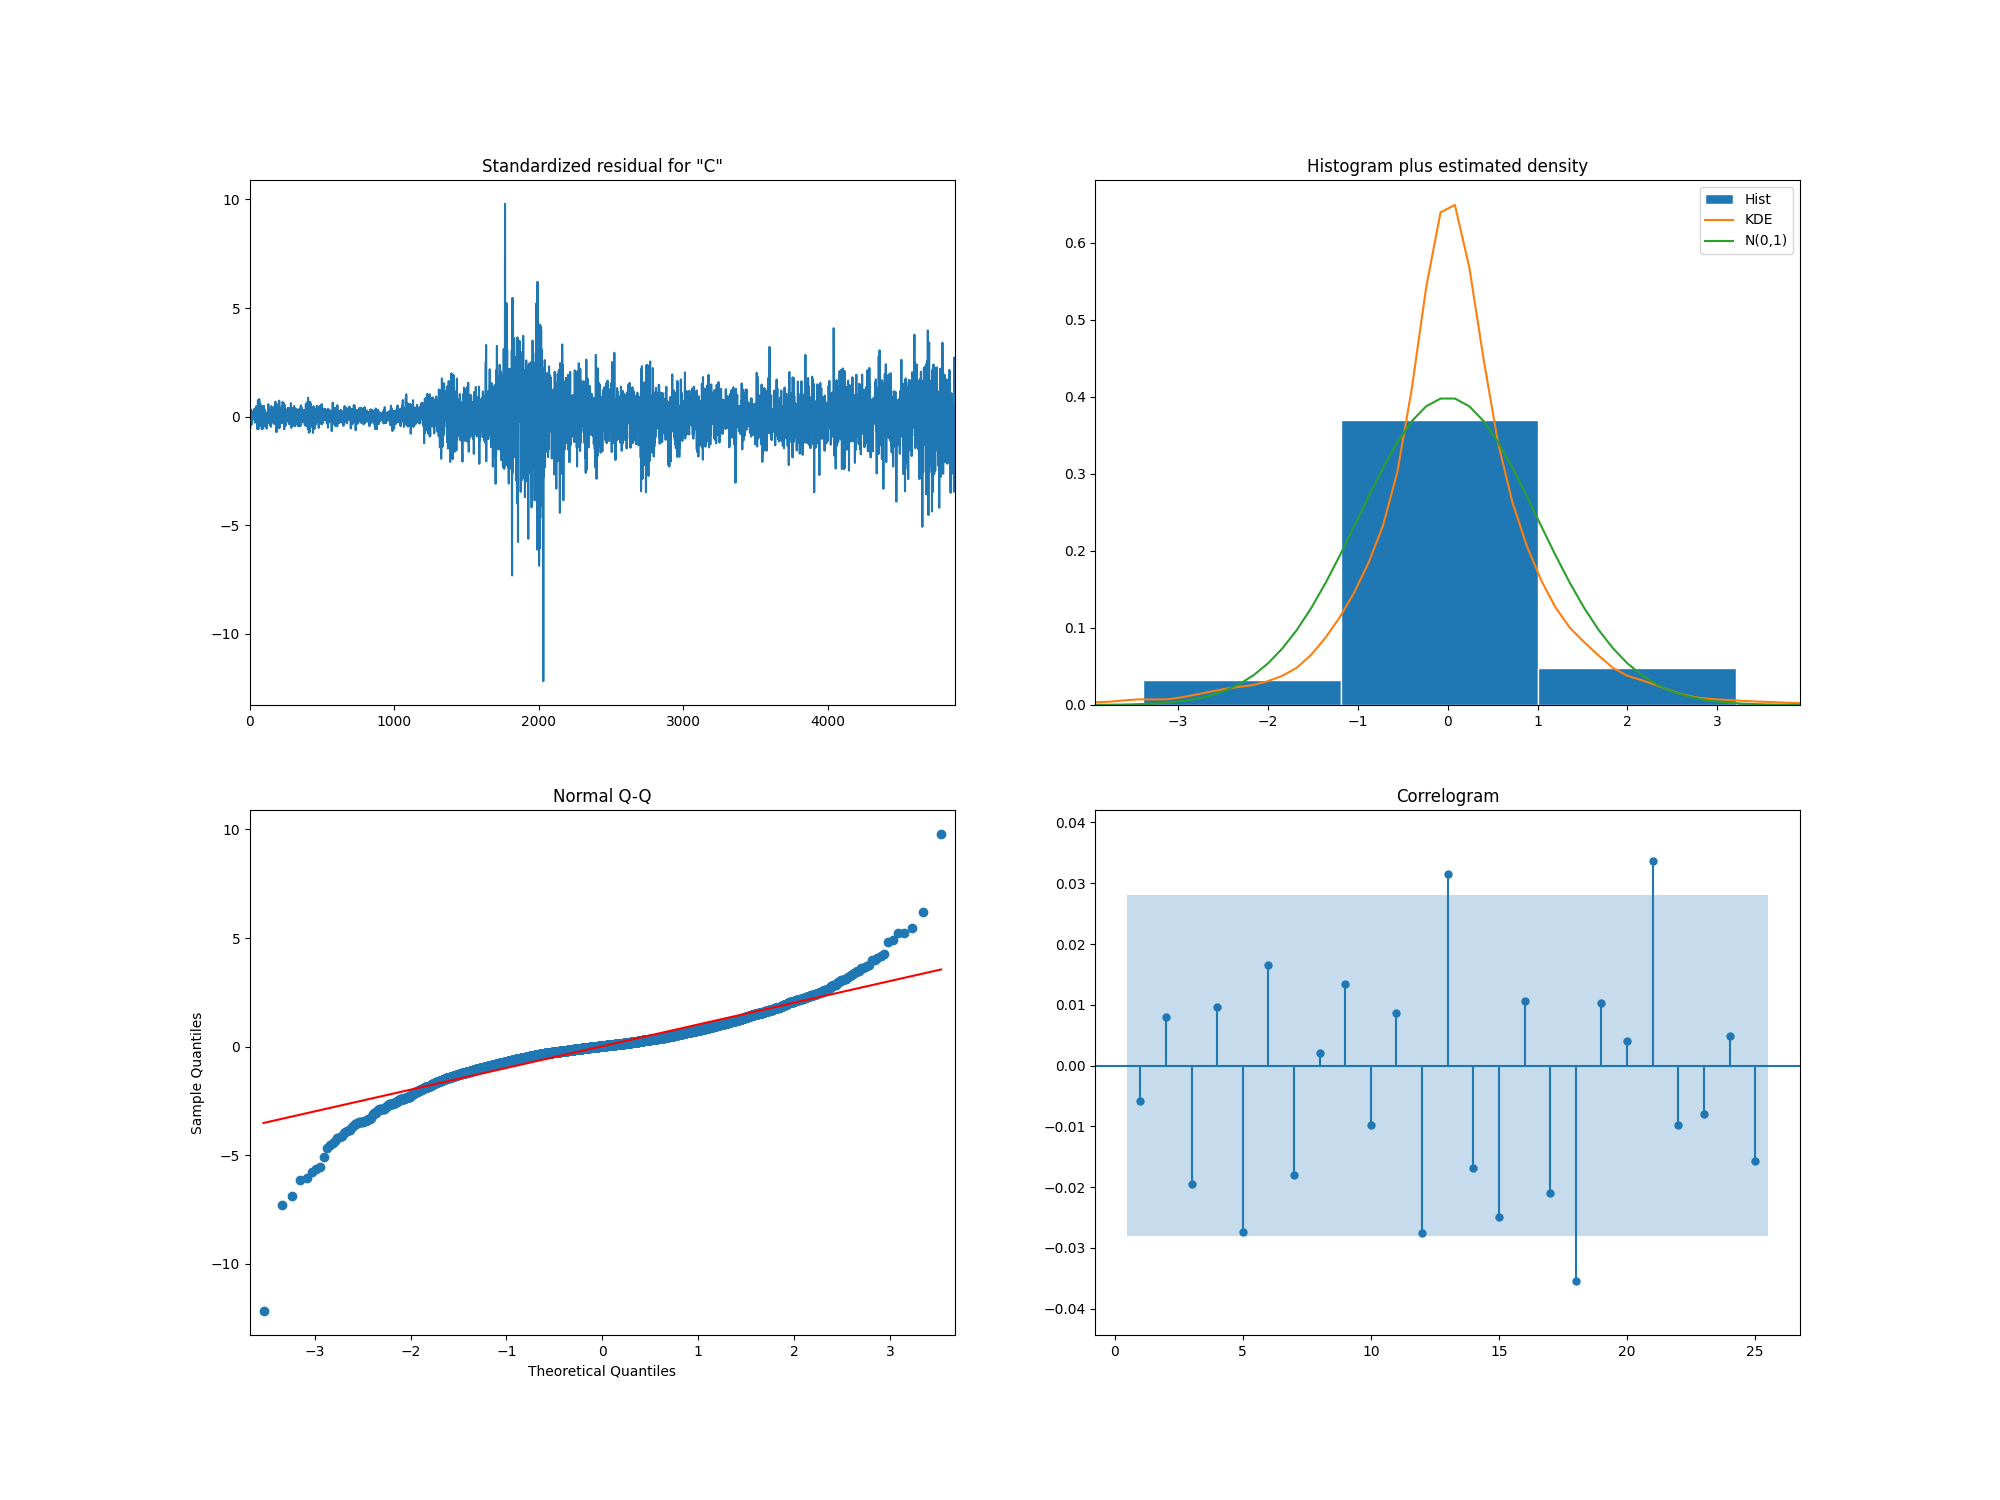
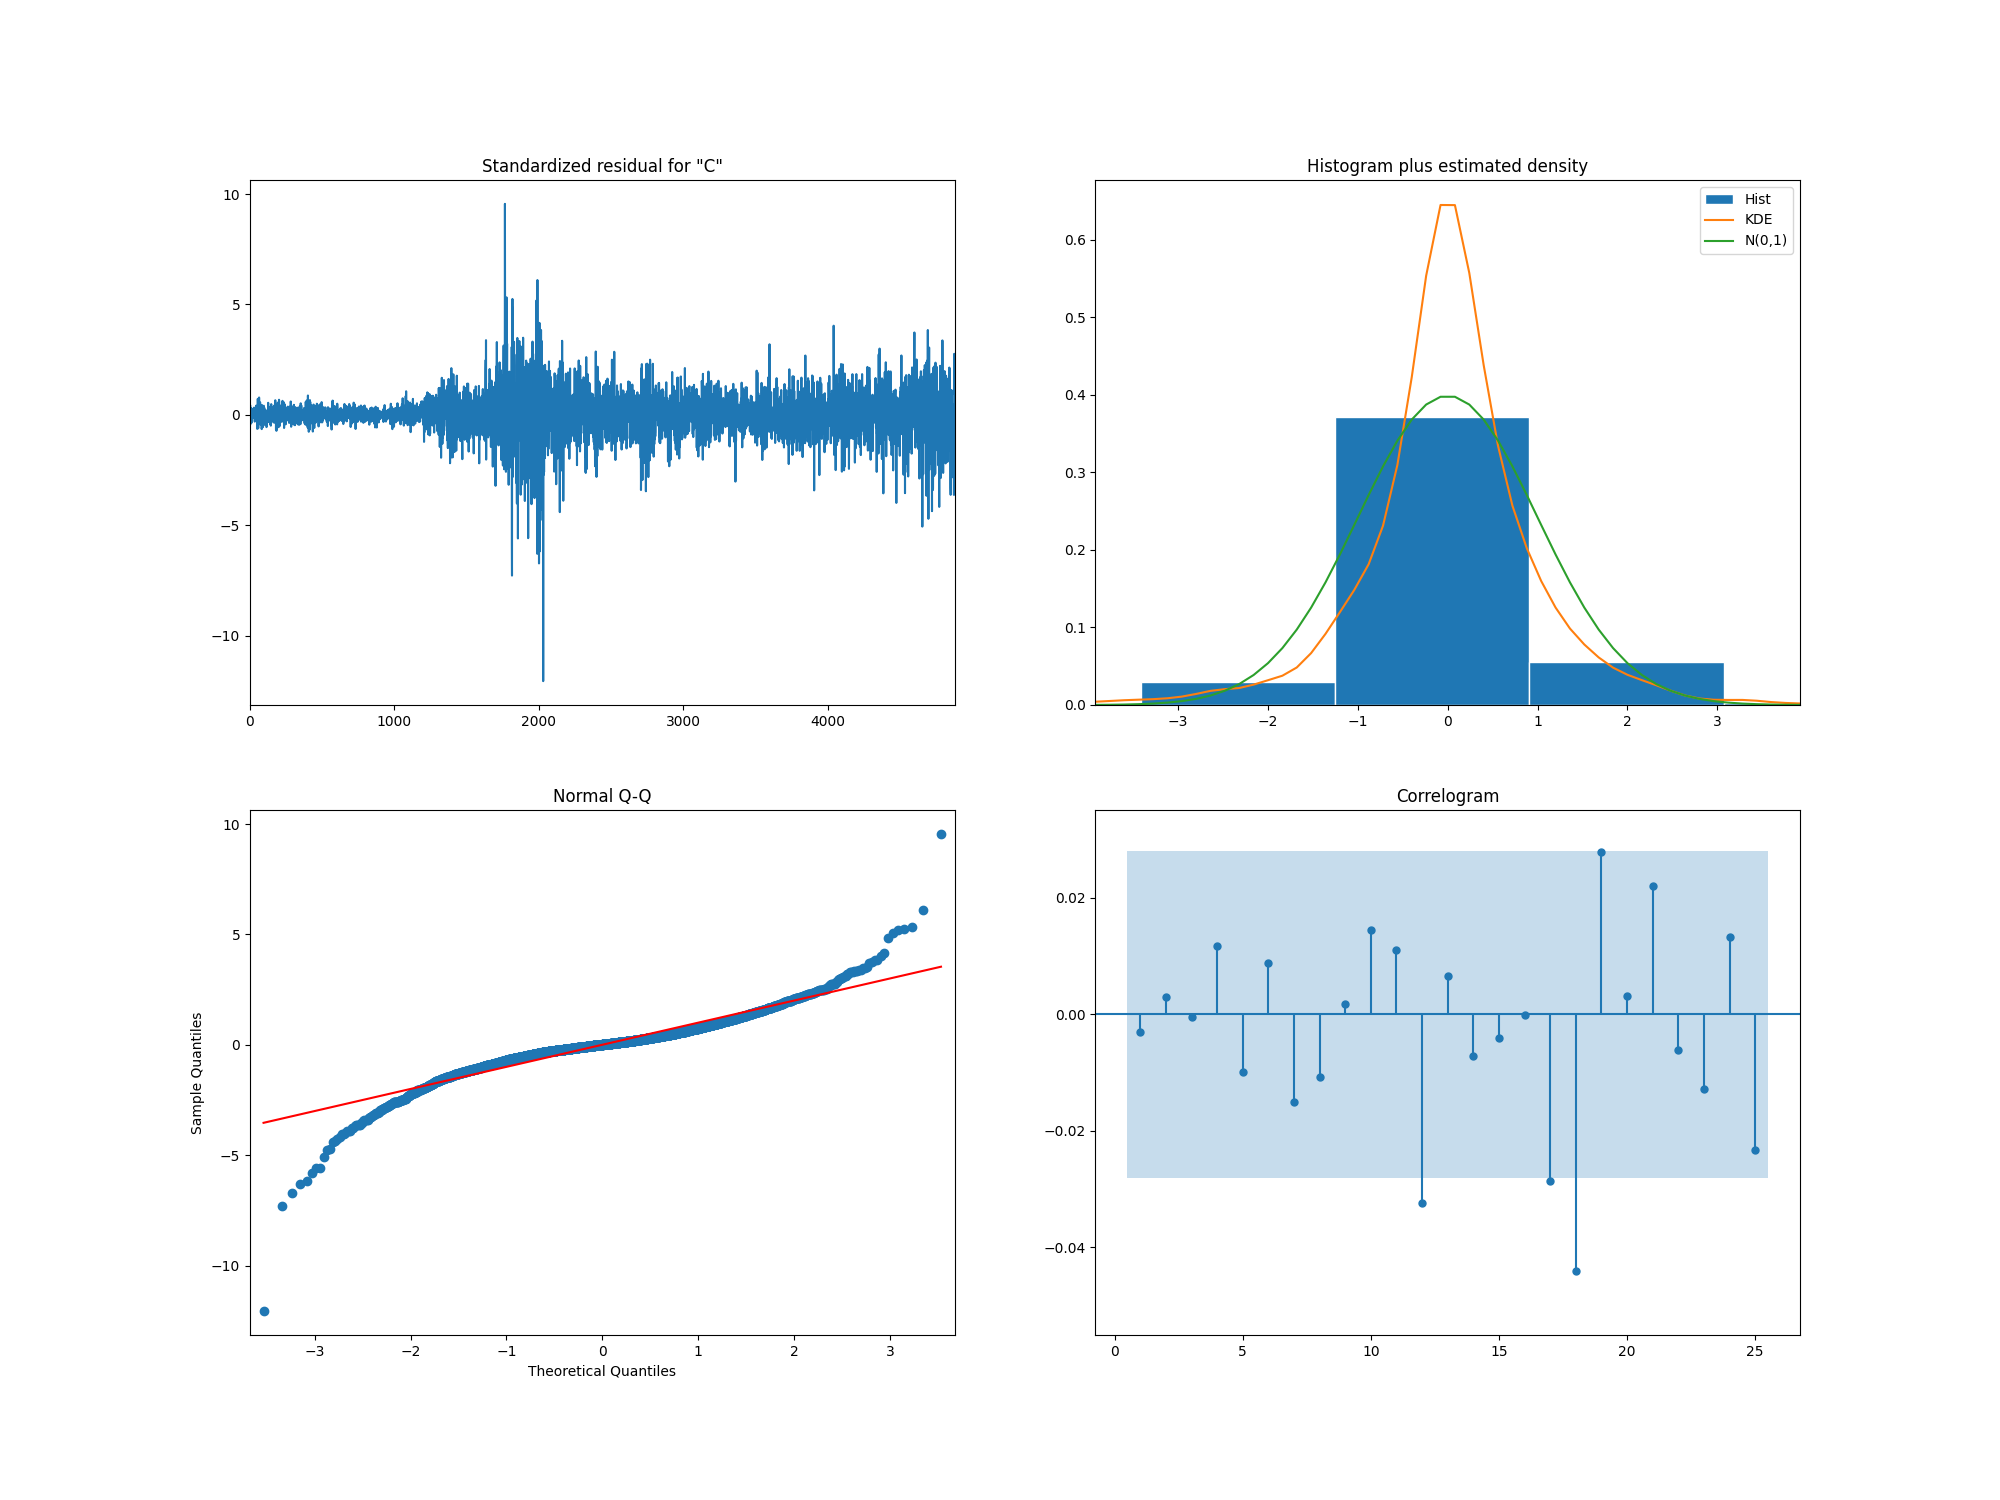
fixed arima models

diff --git a/arima.py b/arima.py
@@ -80,8 +80,8 @@ def CustomARIMAStats(df, ticker, p, d, q):
     residuals = res.resid[1:]
     fig, (ax1, ax2) = plt.subplots(2,1)
     plot_acf(residuals, lags=25, auto_ylims=True, missing="drop", 
-             zero=True, color="red", alpha=0.05, ax=ax1, title="ACF")
-    plot_pacf(residuals, lags=25, alpha=0.05, zero=True, ax=ax2,
+             zero=False, color="red", alpha=0.05, ax=ax1, title="ACF")
+    plot_pacf(residuals, lags=25, alpha=0.05, zero=False, ax=ax2,
               auto_ylims=True, title="PACF")
     plt.savefig(f"{dirName}/{ticker}_Residual_ACF.png")
     plt.clf()
@@ -158,33 +158,33 @@ def main():
         # AICHelper(df, ticker)
 
 
-    # ARIMA 1 AMC 212
-    # CustomARIMAStats(pd.read_csv(dataset_list[0]),ticker_list[0],3,1,6)
-    # ARIMAForcast(pd.read_csv(dataset_list[0]),ticker_list[0],3,1,6)
-    # # ARIMA 2 BHP
-    CustomARIMAStats(pd.read_csv(dataset_list[1]),ticker_list[1],2,1,2)
-    ARIMAForcast(pd.read_csv(dataset_list[1]),ticker_list[1],2,1,2)
-    # ARIMA 3 CBA
-    # CustomARIMAStats(pd.read_csv(dataset_list[2]),ticker_list[2],2,1,2)
-    # ARIMAForcast(pd.read_csv(dataset_list[2]),ticker_list[2],2,1,2)
-    # # ARIMA 4 CSL
-    # CustomARIMAStats(pd.read_csv(dataset_list[3]),ticker_list[3],1,2,2)
-    # ARIMAForcast(pd.read_csv(dataset_list[3]),ticker_list[3],1,2,2)
-    # # ARIMA 5 NAB
-    # CustomARIMAStats(pd.read_csv(dataset_list[4]),ticker_list[4],1,1,2)
-    # ARIMAForcast(pd.read_csv(dataset_list[4]),ticker_list[4],1,1,2)
-    # # ARIMA 6 PME
-    # CustomARIMAStats(pd.read_csv(dataset_list[5]),ticker_list[5],1,2,2)
-    # ARIMAForcast(pd.read_csv(dataset_list[5]),ticker_list[5],1,2,2)
-    # # ARIMA 7 RIO
-    # CustomARIMAStats(pd.read_csv(dataset_list[6]),ticker_list[6],2,1,2)
-    # ARIMAForcast(pd.read_csv(dataset_list[6]),ticker_list[6],0,1,1)
-    # # ARIMA 8 RMD
-    # CustomARIMAStats(pd.read_csv(dataset_list[7]),ticker_list[7],2,1,2)   
-    # ARIMAForcast(pd.read_csv(dataset_list[7]),ticker_list[7],2,1,2)
-    # # ARIMA 9 WBC
-    # CustomARIMAStats(pd.read_csv(dataset_list[8]),ticker_list[8],2,1,1)
-    # ARIMAForcast(pd.read_csv(dataset_list[8]),ticker_list[8],2,1,1)
+    # ARIMA 1 AMC --
+    CustomARIMAStats(pd.read_csv(dataset_list[0]),ticker_list[0],0,2,1)
+    ARIMAForcast(pd.read_csv(dataset_list[0]),ticker_list[0],0,2,1)
+    # ARIMA 2 BHP --
+    CustomARIMAStats(pd.read_csv(dataset_list[1]),ticker_list[1],0,2,1)
+    ARIMAForcast(pd.read_csv(dataset_list[1]),ticker_list[1],0,2,1)
+    # ARIMA 3 CBA --
+    CustomARIMAStats(pd.read_csv(dataset_list[2]),ticker_list[2],3,2,1)
+    ARIMAForcast(pd.read_csv(dataset_list[2]),ticker_list[2],3,2,1)
+    # ARIMA 4 CSL --
+    CustomARIMAStats(pd.read_csv(dataset_list[3]),ticker_list[3],3,1,0)
+    ARIMAForcast(pd.read_csv(dataset_list[3]),ticker_list[3],3,1,0)
+    # ARIMA 5 NAB --
+    CustomARIMAStats(pd.read_csv(dataset_list[4]),ticker_list[4],2,2,1)
+    ARIMAForcast(pd.read_csv(dataset_list[4]),ticker_list[4],2,2,1)
+    # ARIMA 6 PME --
+    CustomARIMAStats(pd.read_csv(dataset_list[5]),ticker_list[5],0,2,2)
+    ARIMAForcast(pd.read_csv(dataset_list[5]),ticker_list[5],0,2,2)
+    # ARIMA 7 RIO 725 20.9-- 124 26
+    CustomARIMAStats(pd.read_csv(dataset_list[6]),ticker_list[6],7,2,5)
+    ARIMAForcast(pd.read_csv(dataset_list[6]),ticker_list[6],7,2,5)
+    # ARIMA 8 RMD
+    CustomARIMAStats(pd.read_csv(dataset_list[7]),ticker_list[7],1,1,1)   
+    ARIMAForcast(pd.read_csv(dataset_list[7]),ticker_list[7],1,1,1)
+    # ARIMA 9 WBC
+    CustomARIMAStats(pd.read_csv(dataset_list[8]),ticker_list[8],3,1,3)
+    ARIMAForcast(pd.read_csv(dataset_list[8]),ticker_list[8],3,1,3)
 
 
 main()

diff --git a/tempCodeRunnerFile.py b/tempCodeRunnerFile.py
@@ -1,0 +1,2 @@
+
+    # ARIMAForcast(pd.read_csv(dataset_list[1]),ticker_list[1],0,2,1)
